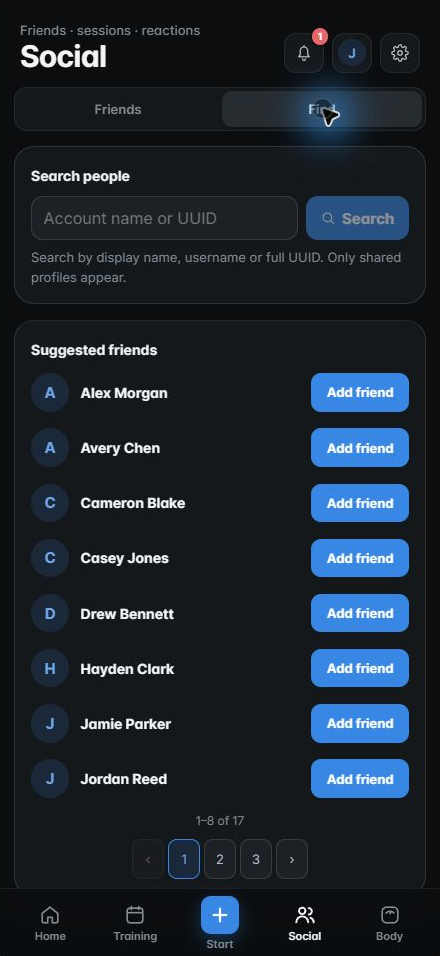
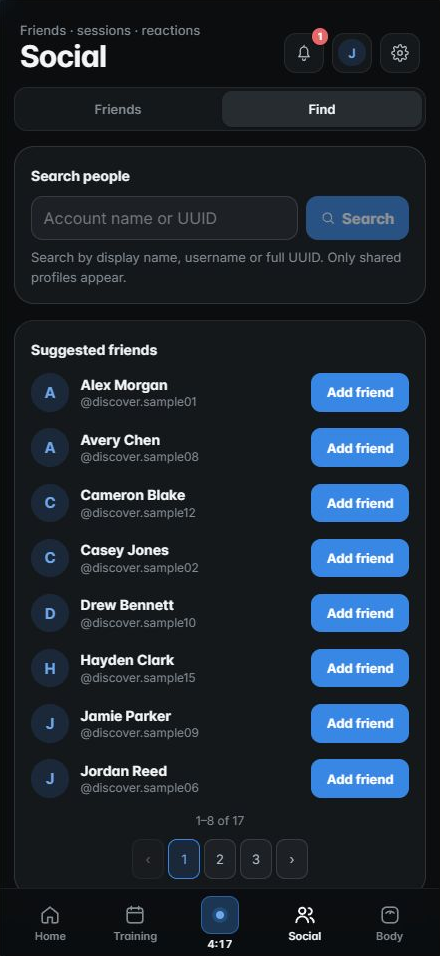
Show usernames beneath suggested friends

diff --git a/frontend/src/SuggestedFriends.test.tsx b/frontend/src/SuggestedFriends.test.tsx
@@ -4,11 +4,12 @@ import { createRoot, type Root } from 'react-dom/client';
 import { afterEach, beforeEach, expect, it, vi } from 'vitest';
 import { api } from './api';
 import { SuggestedFriends } from './SharedProfiles';
-import type { SharedProfileSummary, SuggestedProfilePage } from './types';
+import type { SuggestedProfileSummary, SuggestedProfilePage } from './types';
 
-const members: SharedProfileSummary[] = Array.from({ length: 17 }, (_, index) => ({
+const members: SuggestedProfileSummary[] = Array.from({ length: 17 }, (_, index) => ({
   id: `person-${index + 1}`,
   display_name: `Person ${index + 1}`,
+  username: `person.${index + 1}`,
   profile_photo_url: null,
   member_since: '2026-10-01T12:00:00Z',
   visibility: 'public',
@@ -22,7 +23,7 @@ const members: SharedProfileSummary[] = Array.from({ length: 17 }, (_, index) =>
 }));
 let root: Root;
 let host: HTMLDivElement;
-let available: SharedProfileSummary[];
+let available: SuggestedProfileSummary[];
 const open = vi.fn();
 const changed = vi.fn();
 function result(page = 1): SuggestedProfilePage {
@@ -76,6 +77,9 @@ it('automatically lists eight suggestions and opens a name without sending a req
   await render();
   expect(api.sharing.suggestions).toHaveBeenCalledWith(1);
   expect(host.querySelectorAll('li')).toHaveLength(8);
+  expect(
+    [...host.querySelectorAll('.shared-connection-copy small')].map((el) => el.textContent),
+  ).toEqual(members.slice(0, 8).map((person) => `@${person.username}`));
   expect(host.textContent).toContain('1–8 of 17');
   await click(button("Open Person 1's profile"));
   expect(open).toHaveBeenCalledWith(members[0]);
@@ -90,6 +94,7 @@ it('supports next, previous and numbered pages with boundary states and focus', 
   expect(host.querySelectorAll('li')).toHaveLength(8);
   expect(host.textContent).toContain('9–16 of 17');
   expect(button("Open Person 9's profile")).not.toBeNull();
+  expect(button("Open Person 9's profile").textContent).toContain('@person.9');
   expect(document.activeElement).toBe(host.querySelector('h3'));
   await click(button('Suggested friends page 3'));
   expect(host.querySelectorAll('li')).toHaveLength(1);

diff --git a/frontend/src/types.ts b/frontend/src/types.ts
@@ -738,8 +738,12 @@ export interface SharedProfileSummary {
   } | null;
 }
 
+export interface SuggestedProfileSummary extends SharedProfileSummary {
+  username: string;
+}
+
 export interface SuggestedProfilePage {
-  profiles: SharedProfileSummary[];
+  profiles: SuggestedProfileSummary[];
   total: number;
   page: number;
   page_size: number;

diff --git a/frontend/src/SharedProfiles.tsx b/frontend/src/SharedProfiles.tsx
@@ -655,6 +655,7 @@ export function SuggestedFriends({
                 <FriendRow
                   key={profile.id}
                   person={profile}
+                  detail={`@${profile.username}`}
                   onOpen={() => onOpenProfile(profile)}
                   actions={
                     <FriendButton

diff --git a/frontend/src/sharing.css b/frontend/src/sharing.css
@@ -655,6 +655,10 @@
   min-height: 2.75rem;
 }
 
+.suggested-friends .shared-connection-copy small {
+  overflow-wrap: anywhere;
+}
+
 .suggested-friends h3 {
   scroll-margin-top: 5.5rem;
 }

diff --git a/backend/app/sharing.py b/backend/app/sharing.py
@@ -12,8 +12,8 @@ choose.
 New accounts start public; existing accounts retain their choices, including private defaults.
 
 Private, disabled and missing profiles all answer "not found". A friends-only profile shows only
-its name and photo until the two members are friends. Usernames can be searched but are not
-returned in shared profiles. Videos and sample data are never shared.
+its name and photo until the two members are friends. Public friend suggestions include usernames;
+other shared-profile responses omit them. Videos and sample data are never shared.
 """
 
 from __future__ import annotations
@@ -134,8 +134,12 @@ class SharedProfileSummary(BaseModel):
     shares: SharedContent | None = None
 
 
+class SuggestedProfileSummary(SharedProfileSummary):
+    username: str
+
+
 class SuggestedProfilePage(BaseModel):
-    profiles: list[SharedProfileSummary]
+    profiles: list[SuggestedProfileSummary]
     total: int
     page: int
     page_size: int = 8
@@ -676,7 +680,10 @@ def suggested_profiles(user: CurrentUser, db: Db, page: int = Query(default=1, g
     stats = workout_stats(db, [member.id for member, _ in rows])
     return SuggestedProfilePage(
         profiles=[
-            profile_summary(user, member, sharing, None, stats.get(member.id))
+            SuggestedProfileSummary(
+                **profile_summary(user, member, sharing, None, stats.get(member.id)).model_dump(),
+                username=member.username,
+            )
             for member, sharing in rows
         ],
         total=total,

diff --git a/backend/tests/test_suggested_profiles.py b/backend/tests/test_suggested_profiles.py
@@ -37,7 +37,7 @@ def test_suggestions_page_eight_public_non_friends_and_clamp_after_request(
         person["friend_status"] == "none"
         and person["visibility"] == "public"
         and person["can_view"]
-        and "username" not in person
+        and person["username"] == f"suggestion_{ids.index(person['id'])}"
         for page in data
         for person in page["profiles"]
     )

diff --git a/docs/RELEASE-NOTES.md b/docs/RELEASE-NOTES.md
@@ -8,9 +8,9 @@ _Relay was called Gym Logger before version 1.0._
 
 ### Find friends and improve your workouts
 
-![Social Find showing eight suggested public profiles, separate Add friend buttons and numbered pagination](screenshots/releases/1.0.1-suggested-friends.png)
+![Social Find showing eight suggested public profiles with usernames, separate Add friend buttons and numbered pagination](screenshots/releases/1.0.1-suggested-friends.png)
 
-_Find automatically lists public accounts you are not connected to. Tap a name or avatar to open the profile; Add friend is separate. This phone-sized view uses isolated sample data._
+_Find automatically lists public accounts you are not connected to, with usernames beneath their names. Tap a name or avatar to open the profile; Add friend is separate. This phone-sized view uses isolated sample data._
 
 ![Workout table with orange warm-up, green working, purple drop and red failure rows, plus coloured RPE numbers](screenshots/releases/1.0.1-rpe-set-colours.png)
 
@@ -41,7 +41,7 @@ _Equipment photo opens directly to its controls in this isolated sample workout.
 _The exercise card ends at Add set. Set notes and workout notes remain available. Isolated sample data._
 
 - Removed the Exercise note for next time field from workout exercise cards. Previously saved exercise notes remain in workout history.
-- Social > Find automatically suggests public accounts, eight per page with numbered, Previous and Next controls. Tap a name or avatar to open the profile; Add friend is a separate action. Your account, existing friends and requests, private or disabled accounts, and blocks in either direction are excluded. Search remains available above the list.
+- Social > Find automatically suggests public accounts, eight per page with numbered, Previous and Next controls. Each person's username appears beneath their name. Tap a name or avatar to open the profile; Add friend is a separate action. Your account, existing friends and requests, private or disabled accounts, and blocks in either direction are excluded. Search remains available above the list.
 - Notifications includes a Relay release row with its version, title, date and **View** button. View opens What's new and clears **New**; closing the notes returns to Notifications; opening the inbox alone does not. The latest release stays available after viewing, with read state kept per account and release on this device. The row counts towards the 15-notification page limit and stays available if social notifications cannot load.
 - Rest complete now appears as a nonblocking in-app alert while Relay is visible, including when you are on another tab or have dismissed the countdown. Background phone notifications keep their existing delivery path. Cancelled rests do not trigger an alert.
 - Home's Recent Friends Activity now shows the original logged time in your local time beside Today, Yesterday or the session date, for strength and cardio sessions. Editing a workout does not change its logged time.
